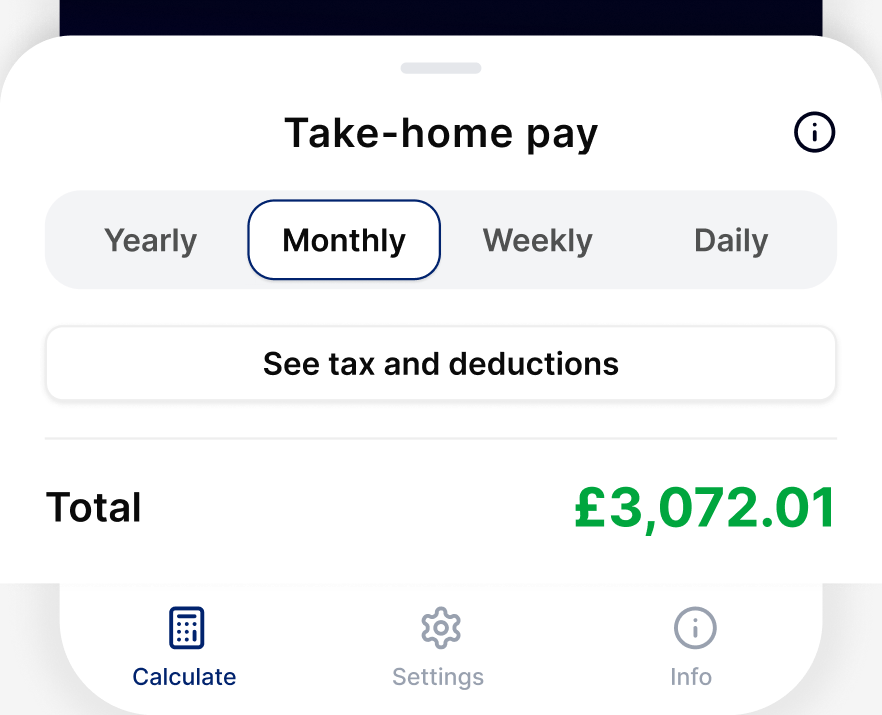
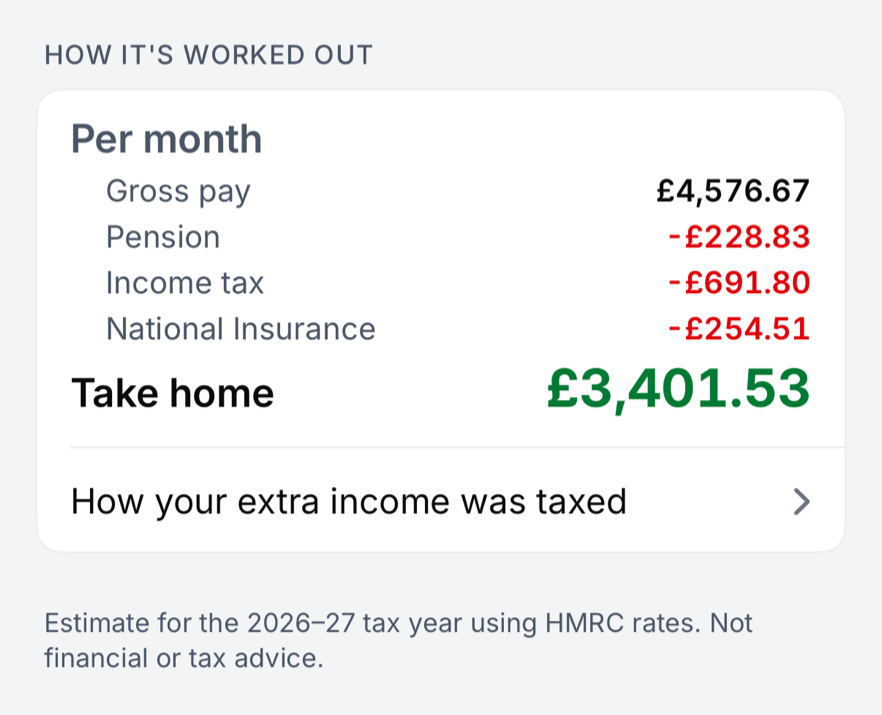
Show Netti 3.2.1's screens on the homepage
The hero and the three "How it works" images still showed the 2.x app
(the Calculate, Settings and Info tabs). They now come from 3.2.1's
screenshots on the iPhone 17 Pro simulator (ios-native/design/
screenshots/light, 2026-11-12 and 13):
- hero.png: takehome-1, the Take home screen, 640 x 1391. It shows the
  Salary sacrifice row and the Compare tab.
- step-1: firstrun-1-1, "What do you earn?";
- step-2: takehome-2, "How it's worked out" per month, with the scroll
  indicator at the right edge painted out in the background colour;
- step-3: editor-extra-1, the Extra income sheet.
The steps are 882 x 715 bands of the screen scaled to 882 wide, framed
as on the local homepage-3.0 branch. The alt text describes each one,
and the hero's height attribute matches its new size. No copy changes.

diff --git a/index.html b/index.html
@@ -157,7 +157,7 @@
       </div>
       <div class="hero-visual">
         <div class="phone-frame">
-          <img src="assets/screenshots/hero.png" alt="Netti Calculate screen showing salary, extra income (bonus and overtime) and monthly take-home pay" width="640" height="1388" loading="eager">
+          <img src="assets/screenshots/hero.png" alt="Netti's Take home screen: £3,402 a month from a £45,000 salary, with pension, salary sacrifice, student loan, tax code and extra income listed below" width="640" height="1391" loading="eager">
         </div>
       </div>
     </div>
@@ -200,7 +200,7 @@
       <div class="steps-grid">
         <div class="step-card">
           <div class="step-shot">
-            <img src="assets/screenshots/step-1-enter-salary.png" alt="Netti Calculate screen — entering gross salary" width="882" height="715" loading="lazy">
+            <img src="assets/screenshots/step-1-enter-salary.png" alt="Netti asking “What do you earn?”, with a £45,000 yearly salary entered" width="882" height="715" loading="lazy">
           </div>
           <span class="step-number">1</span>
           <h3>Enter your salary</h3>
@@ -208,7 +208,7 @@
         </div>
         <div class="step-card">
           <div class="step-shot">
-            <img src="assets/screenshots/step-2-breakdown.png" alt="Netti Take-home pay sheet showing the monthly total and a link to tax and deductions detail" width="882" height="715" loading="lazy">
+            <img src="assets/screenshots/step-2-breakdown.png" alt="Netti's breakdown per month: gross pay, pension, income tax and National Insurance, leaving £3,401.53 take home" width="882" height="715" loading="lazy">
           </div>
           <span class="step-number">2</span>
           <h3>See the full breakdown</h3>
@@ -216,7 +216,7 @@
         </div>
         <div class="step-card">
           <div class="step-shot">
-            <img src="assets/screenshots/step-3-scenarios.png" alt="Netti Extra income card showing a modelled bonus and overtime payment" width="882" height="715" loading="lazy">
+            <img src="assets/screenshots/step-3-scenarios.png" alt="Netti's Extra income sheet with an £800 monthly bonus and £320 of overtime" width="882" height="715" loading="lazy">
           </div>
           <span class="step-number">3</span>
           <h3>Model real scenarios</h3>
